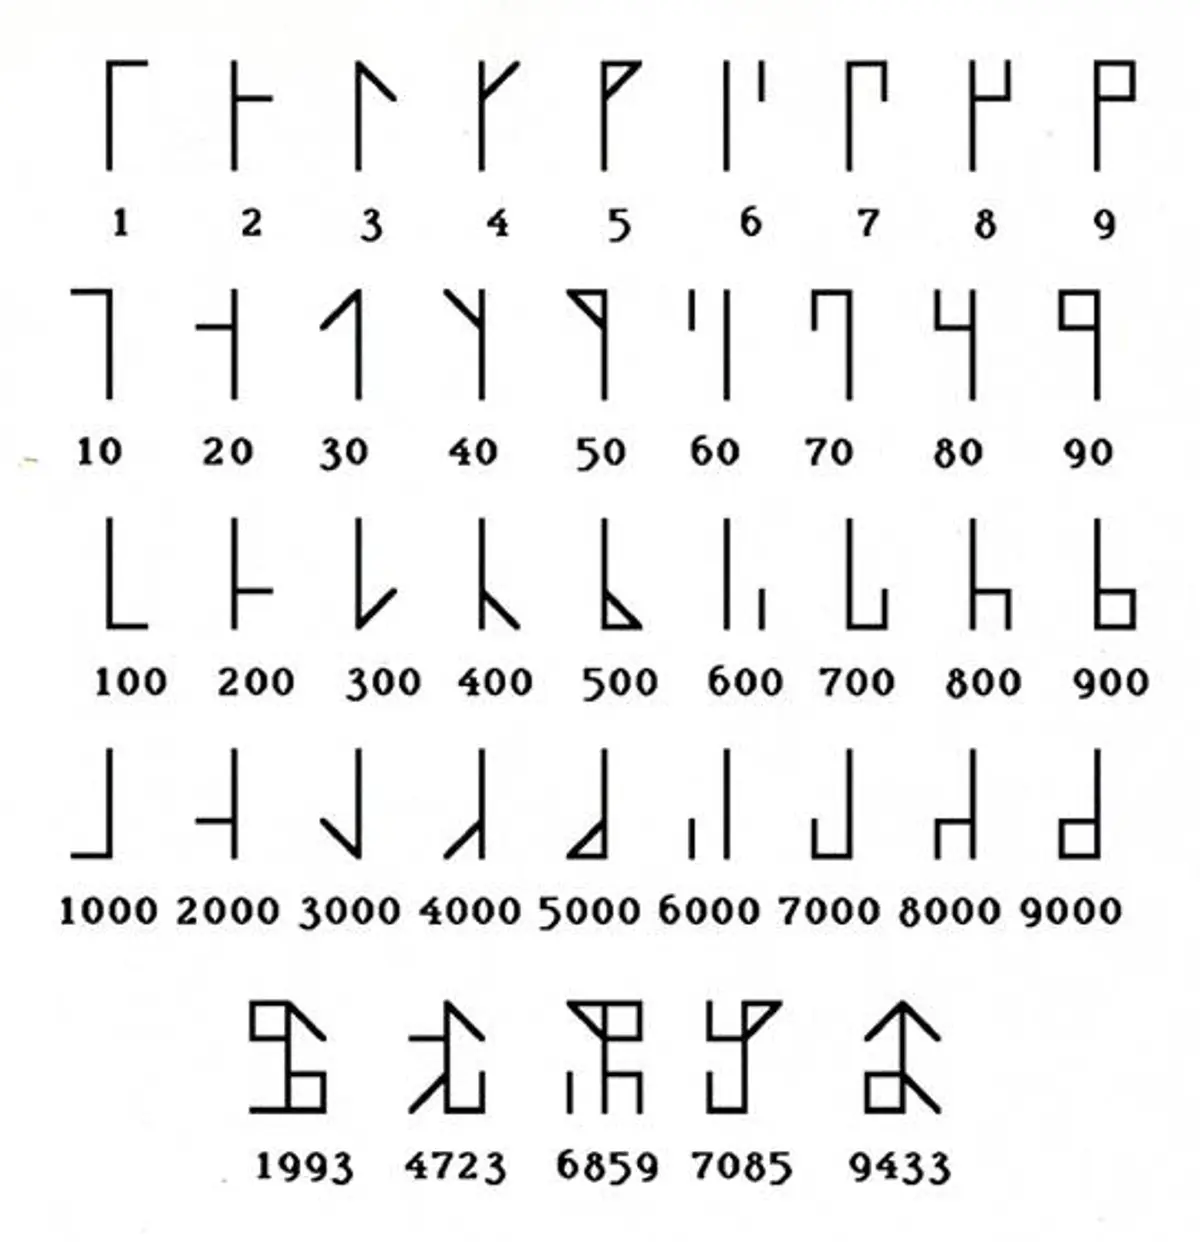
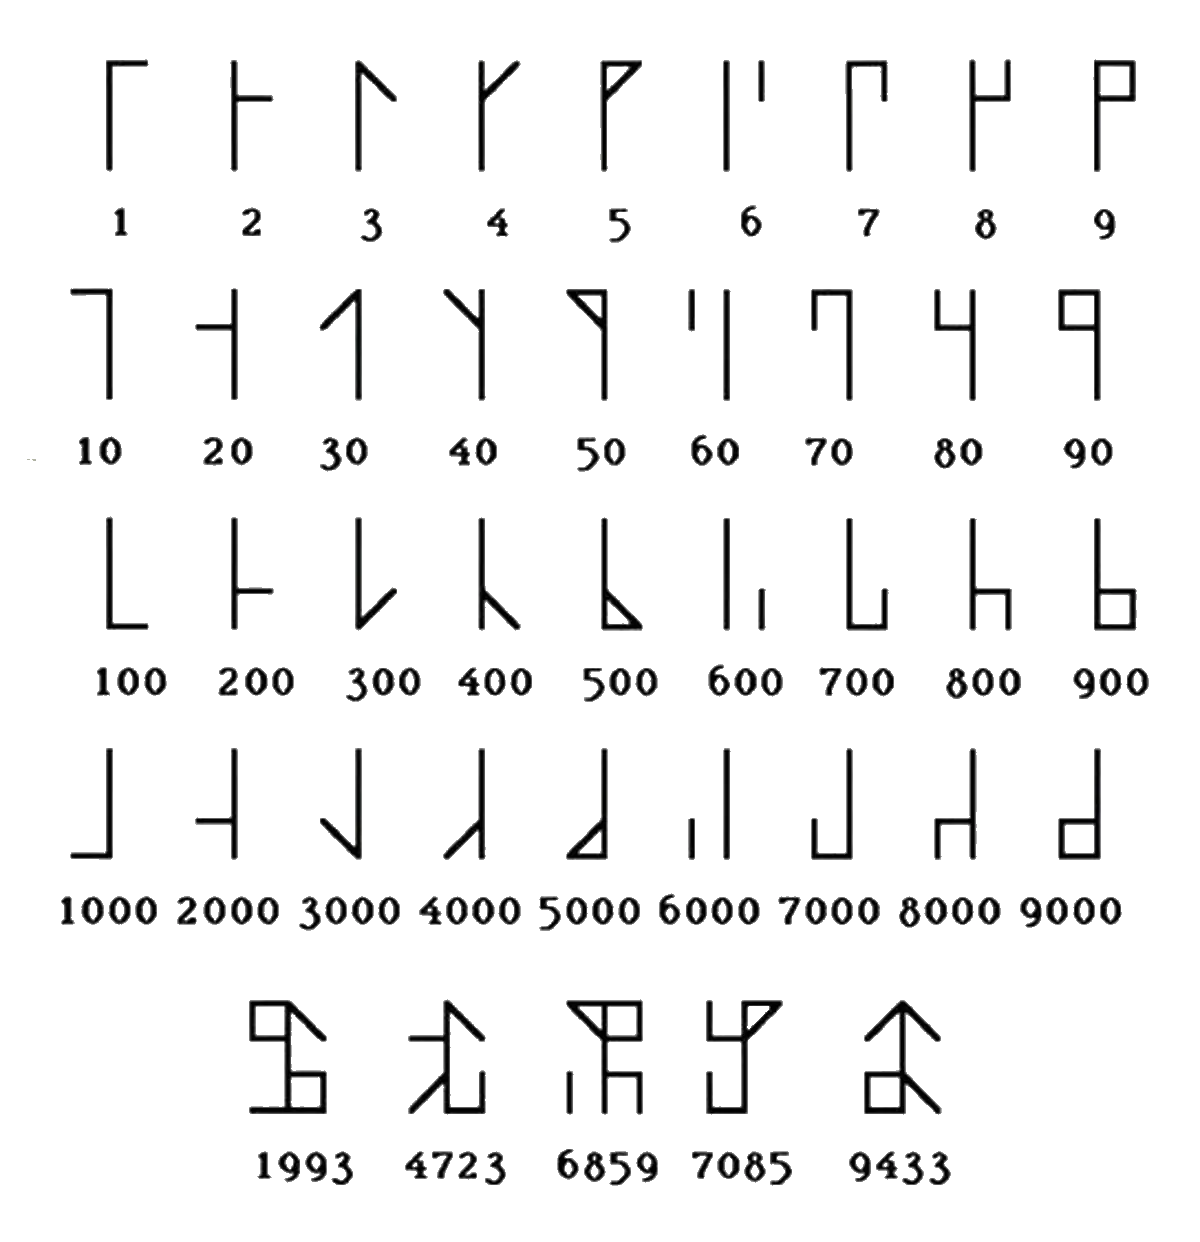
Dark mode stuff

Changed region(s): [[0.6167, 0.7955, 0.6475, 0.8261]]

diff --git a/HTML/X-Rotor.html b/HTML/X-Rotor.html
@@ -12,6 +12,12 @@
         table {
             margin: 1em auto;
         }
+        .dark .movement {
+            filter: invert(80%);
+        }
+        .dark .symbol {
+            filter: invert(80%);
+        }
     </style>
 </head>
 <body>
@@ -34,15 +40,15 @@
                 <ul><li>About the bottom of the module - The button's symbol is to the <strong>left</strong> of the scanned symbol.</li>
                 <li>About the top of the module - The button's symbol is <strong>above</strong> the scanned symbol.</li></ul></li></ul>
                 <p>Press the five buttons in the order their assigned scanned symbols are shown in the sequence.</p>
-                <table style="margin:auto">
-                <tr><th><img src="img/X-Rotor/Symbols/S00.svg" style="width:40px"></th><th><img src="img/X-Rotor/Symbols/S01.svg" style="width:40px"></th><th><img src="img/X-Rotor/Symbols/S02.svg" style="width:40px"></th><th><img src="img/X-Rotor/Symbols/S03.svg" style="width:40px"></th><th><img src="img/X-Rotor/Symbols/S04.svg" style="width:40px"></th><th><img src="img/X-Rotor/Symbols/S05.svg" style="width:40px"></th><th><img src="img/X-Rotor/Symbols/S06.svg" style="width:40px"></th><th><img src="img/X-Rotor/Symbols/S07.svg" style="width:40px"></th></tr>
-                <tr><th><img src="img/X-Rotor/Symbols/S10.svg" style="width:40px"></th><th><img src="img/X-Rotor/Symbols/S11.svg" style="width:40px"></th><th><img src="img/X-Rotor/Symbols/S12.svg" style="width:40px"></th><th><img src="img/X-Rotor/Symbols/S13.svg" style="width:40px"></th><th><img src="img/X-Rotor/Symbols/S14.svg" style="width:40px"></th><th><img src="img/X-Rotor/Symbols/S15.svg" style="width:40px"></th><th><img src="img/X-Rotor/Symbols/S16.svg" style="width:40px"></th><th><img src="img/X-Rotor/Symbols/S17.svg" style="width:40px"></th></tr>
-                <tr><th><img src="img/X-Rotor/Symbols/S20.svg" style="width:40px"></th><th><img src="img/X-Rotor/Symbols/S21.svg" style="width:40px"></th><th><img src="img/X-Rotor/Symbols/S22.svg" style="width:40px"></th><th><img src="img/X-Rotor/Symbols/S23.svg" style="width:40px"></th><th><img src="img/X-Rotor/Symbols/S24.svg" style="width:40px"></th><th><img src="img/X-Rotor/Symbols/S25.svg" style="width:40px"></th><th><img src="img/X-Rotor/Symbols/S26.svg" style="width:40px"></th><th><img src="img/X-Rotor/Symbols/S27.svg" style="width:40px"></th></tr>
-                <tr><th><img src="img/X-Rotor/Symbols/S30.svg" style="width:40px"></th><th><img src="img/X-Rotor/Symbols/S31.svg" style="width:40px"></th><th><img src="img/X-Rotor/Symbols/S32.svg" style="width:40px"></th><th><img src="img/X-Rotor/Symbols/S33.svg" style="width:40px"></th><th><img src="img/X-Rotor/Symbols/S34.svg" style="width:40px"></th><th><img src="img/X-Rotor/Symbols/S35.svg" style="width:40px"></th><th><img src="img/X-Rotor/Symbols/S36.svg" style="width:40px"></th><th><img src="img/X-Rotor/Symbols/S37.svg" style="width:40px"></th></tr>
-                <tr><th><img src="img/X-Rotor/Symbols/S40.svg" style="width:40px"></th><th><img src="img/X-Rotor/Symbols/S41.svg" style="width:40px"></th><th><img src="img/X-Rotor/Symbols/S42.svg" style="width:40px"></th><th><img src="img/X-Rotor/Symbols/S43.svg" style="width:40px"></th><th><img src="img/X-Rotor/Symbols/S44.svg" style="width:40px"></th><th><img src="img/X-Rotor/Symbols/S45.svg" style="width:40px"></th><th><img src="img/X-Rotor/Symbols/S46.svg" style="width:40px"></th><th><img src="img/X-Rotor/Symbols/S47.svg" style="width:40px"></th></tr>
-                <tr><th><img src="img/X-Rotor/Symbols/S50.svg" style="width:40px"></th><th><img src="img/X-Rotor/Symbols/S51.svg" style="width:40px"></th><th><img src="img/X-Rotor/Symbols/S52.svg" style="width:40px"></th><th><img src="img/X-Rotor/Symbols/S53.svg" style="width:40px"></th><th><img src="img/X-Rotor/Symbols/S54.svg" style="width:40px"></th><th><img src="img/X-Rotor/Symbols/S55.svg" style="width:40px"></th><th><img src="img/X-Rotor/Symbols/S56.svg" style="width:40px"></th><th><img src="img/X-Rotor/Symbols/S57.svg" style="width:40px"></th></tr>
-                <tr><th><img src="img/X-Rotor/Symbols/S60.svg" style="width:40px"></th><th><img src="img/X-Rotor/Symbols/S61.svg" style="width:40px"></th><th><img src="img/X-Rotor/Symbols/S62.svg" style="width:40px"></th><th><img src="img/X-Rotor/Symbols/S63.svg" style="width:40px"></th><th><img src="img/X-Rotor/Symbols/S64.svg" style="width:40px"></th><th><img src="img/X-Rotor/Symbols/S65.svg" style="width:40px"></th><th><img src="img/X-Rotor/Symbols/S66.svg" style="width:40px"></th><th><img src="img/X-Rotor/Symbols/S67.svg" style="width:40px"></th></tr>
-                <tr><th><img src="img/X-Rotor/Symbols/S70.svg" style="width:40px"></th><th><img src="img/X-Rotor/Symbols/S71.svg" style="width:40px"></th><th><img src="img/X-Rotor/Symbols/S72.svg" style="width:40px"></th><th><img src="img/X-Rotor/Symbols/S73.svg" style="width:40px"></th><th><img src="img/X-Rotor/Symbols/S74.svg" style="width:40px"></th><th><img src="img/X-Rotor/Symbols/S75.svg" style="width:40px"></th><th><img src="img/X-Rotor/Symbols/S76.svg" style="width:40px"></th><th><img src="img/X-Rotor/Symbols/S77.svg" style="width:40px"></th></tr>
+                <table class='symbol-table' style="margin:auto">
+                <tr><th><img class='symbol' src="img/X-Rotor/Symbols/S00.svg" style="width:40px"></th><th><img class='symbol' src="img/X-Rotor/Symbols/S01.svg" style="width:40px"></th><th><img class='symbol' src="img/X-Rotor/Symbols/S02.svg" style="width:40px"></th><th><img class='symbol' src="img/X-Rotor/Symbols/S03.svg" style="width:40px"></th><th><img class='symbol' src="img/X-Rotor/Symbols/S04.svg" style="width:40px"></th><th><img class='symbol' src="img/X-Rotor/Symbols/S05.svg" style="width:40px"></th><th><img class='symbol' src="img/X-Rotor/Symbols/S06.svg" style="width:40px"></th><th><img class='symbol' src="img/X-Rotor/Symbols/S07.svg" style="width:40px"></th></tr>
+                <tr><th><img class='symbol' src="img/X-Rotor/Symbols/S10.svg" style="width:40px"></th><th><img class='symbol' src="img/X-Rotor/Symbols/S11.svg" style="width:40px"></th><th><img class='symbol' src="img/X-Rotor/Symbols/S12.svg" style="width:40px"></th><th><img class='symbol' src="img/X-Rotor/Symbols/S13.svg" style="width:40px"></th><th><img class='symbol' src="img/X-Rotor/Symbols/S14.svg" style="width:40px"></th><th><img class='symbol' src="img/X-Rotor/Symbols/S15.svg" style="width:40px"></th><th><img class='symbol' src="img/X-Rotor/Symbols/S16.svg" style="width:40px"></th><th><img class='symbol' src="img/X-Rotor/Symbols/S17.svg" style="width:40px"></th></tr>
+                <tr><th><img class='symbol' src="img/X-Rotor/Symbols/S20.svg" style="width:40px"></th><th><img class='symbol' src="img/X-Rotor/Symbols/S21.svg" style="width:40px"></th><th><img class='symbol' src="img/X-Rotor/Symbols/S22.svg" style="width:40px"></th><th><img class='symbol' src="img/X-Rotor/Symbols/S23.svg" style="width:40px"></th><th><img class='symbol' src="img/X-Rotor/Symbols/S24.svg" style="width:40px"></th><th><img class='symbol' src="img/X-Rotor/Symbols/S25.svg" style="width:40px"></th><th><img class='symbol' src="img/X-Rotor/Symbols/S26.svg" style="width:40px"></th><th><img class='symbol' src="img/X-Rotor/Symbols/S27.svg" style="width:40px"></th></tr>
+                <tr><th><img class='symbol' src="img/X-Rotor/Symbols/S30.svg" style="width:40px"></th><th><img class='symbol' src="img/X-Rotor/Symbols/S31.svg" style="width:40px"></th><th><img class='symbol' src="img/X-Rotor/Symbols/S32.svg" style="width:40px"></th><th><img class='symbol' src="img/X-Rotor/Symbols/S33.svg" style="width:40px"></th><th><img class='symbol' src="img/X-Rotor/Symbols/S34.svg" style="width:40px"></th><th><img class='symbol' src="img/X-Rotor/Symbols/S35.svg" style="width:40px"></th><th><img class='symbol' src="img/X-Rotor/Symbols/S36.svg" style="width:40px"></th><th><img class='symbol' src="img/X-Rotor/Symbols/S37.svg" style="width:40px"></th></tr>
+                <tr><th><img class='symbol' src="img/X-Rotor/Symbols/S40.svg" style="width:40px"></th><th><img class='symbol' src="img/X-Rotor/Symbols/S41.svg" style="width:40px"></th><th><img class='symbol' src="img/X-Rotor/Symbols/S42.svg" style="width:40px"></th><th><img class='symbol' src="img/X-Rotor/Symbols/S43.svg" style="width:40px"></th><th><img class='symbol' src="img/X-Rotor/Symbols/S44.svg" style="width:40px"></th><th><img class='symbol' src="img/X-Rotor/Symbols/S45.svg" style="width:40px"></th><th><img class='symbol' src="img/X-Rotor/Symbols/S46.svg" style="width:40px"></th><th><img class='symbol' src="img/X-Rotor/Symbols/S47.svg" style="width:40px"></th></tr>
+                <tr><th><img class='symbol' src="img/X-Rotor/Symbols/S50.svg" style="width:40px"></th><th><img class='symbol' src="img/X-Rotor/Symbols/S51.svg" style="width:40px"></th><th><img class='symbol' src="img/X-Rotor/Symbols/S52.svg" style="width:40px"></th><th><img class='symbol' src="img/X-Rotor/Symbols/S53.svg" style="width:40px"></th><th><img class='symbol' src="img/X-Rotor/Symbols/S54.svg" style="width:40px"></th><th><img class='symbol' src="img/X-Rotor/Symbols/S55.svg" style="width:40px"></th><th><img class='symbol' src="img/X-Rotor/Symbols/S56.svg" style="width:40px"></th><th><img class='symbol' src="img/X-Rotor/Symbols/S57.svg" style="width:40px"></th></tr>
+                <tr><th><img class='symbol' src="img/X-Rotor/Symbols/S60.svg" style="width:40px"></th><th><img class='symbol' src="img/X-Rotor/Symbols/S61.svg" style="width:40px"></th><th><img class='symbol' src="img/X-Rotor/Symbols/S62.svg" style="width:40px"></th><th><img class='symbol' src="img/X-Rotor/Symbols/S63.svg" style="width:40px"></th><th><img class='symbol' src="img/X-Rotor/Symbols/S64.svg" style="width:40px"></th><th><img class='symbol' src="img/X-Rotor/Symbols/S65.svg" style="width:40px"></th><th><img class='symbol' src="img/X-Rotor/Symbols/S66.svg" style="width:40px"></th><th><img class='symbol' src="img/X-Rotor/Symbols/S67.svg" style="width:40px"></th></tr>
+                <tr><th><img class='symbol' src="img/X-Rotor/Symbols/S70.svg" style="width:40px"></th><th><img class='symbol' src="img/X-Rotor/Symbols/S71.svg" style="width:40px"></th><th><img class='symbol' src="img/X-Rotor/Symbols/S72.svg" style="width:40px"></th><th><img class='symbol' src="img/X-Rotor/Symbols/S73.svg" style="width:40px"></th><th><img class='symbol' src="img/X-Rotor/Symbols/S74.svg" style="width:40px"></th><th><img class='symbol' src="img/X-Rotor/Symbols/S75.svg" style="width:40px"></th><th><img class='symbol' src="img/X-Rotor/Symbols/S76.svg" style="width:40px"></th><th><img class='symbol' src="img/X-Rotor/Symbols/S77.svg" style="width:40px"></th></tr>
                 </table>
             </div>
             <div class="page-footer relative-footer">Page 1 of 2</div>
@@ -58,13 +64,13 @@
             The image is upright exactly half way through the scan.</p>
             <p>The diagrams below illustrate the start, mid, and end points of the scans with an example image.</p>
             <h4>Clockwise around bottom</h4>
-            <img src="img/X-Rotor/Examples//BC.svg" style="width:100%">
+            <img class='movement' src="img/X-Rotor/Examples//BC.svg" style="width:100%">
             <h4>Clockwise around top</h4>
-            <img src="img/X-Rotor/Examples//TC.svg" style="width:100%">
+            <img class='movement' src="img/X-Rotor/Examples//TC.svg" style="width:100%">
             <h4>Anticlockwise around bottom</h4>
-            <img src="img/X-Rotor/Examples//BA.svg" style="width:100%">
+            <img class='movement' src="img/X-Rotor/Examples//BA.svg" style="width:100%">
             <h4>Anticlockwise around top</h4>
-            <img src="img/X-Rotor/Examples//TA.svg" style="width:100%">
+            <img class='movement' src="img/X-Rotor/Examples//TA.svg" style="width:100%">
             </div>
             <div class="page-footer relative-footer">Page 2 of 2</div>
         </div>

diff --git a/HTML/Dialtones.html b/HTML/Dialtones.html
@@ -8,6 +8,11 @@
     <link rel="stylesheet" type="text/css" href="css/normalize.css">
     <link rel="stylesheet" type="text/css" href="css/main.css">
     <script src="js/ktane-utils.js"></script>
+    <style>
+        .dark .chart {
+            filter: invert(80%);
+        }
+    </style>
 </head>
 <body>
     <div class="section">
@@ -22,7 +27,7 @@
                 <p class="flavour-text">I try and I try and I try to make you listen to me.</p>
 
                 <p>The module has a numpad equipped with an additional play and record button. Pressing the play button will play a sequence of dialtones. The numbered buttons may be freely pressed to hear the dialtone associated with them as long as the record button has not been pressed.</p>
-                <img src="img/Dialtones/Phonepad.svg" style="float: right">
+                <img src="img/Dialtones/Phonepad.svg" style="float: right" class="chart">
                 <p>The numbers associated with each dialtone in the sequence can be converted to a word as follows:</p><ul>
                 <li>Each run of the same number represents the Nth letter in the number's cell in the diagram, where N is the length of the run.</li>
                 <li>The number 1 is used to separate consecutive runs of the same letter, as it has no letters associated with it.</li></ul>

diff --git a/HTML/Cistercian Numbers.html b/HTML/Cistercian Numbers.html
@@ -8,8 +8,12 @@
     <link rel="stylesheet" type="text/css" href="css/normalize.css">
     <link rel="stylesheet" type="text/css" href="css/main.css">
     <script src="js/ktane-utils.js"></script>
+    <style>
+        .dark .chart {
+            filter: invert(80%);
+        }
+    </style>
 </head>
-
 <body>
     <div class="section">
         <div class="page page-bg-01">
@@ -26,7 +30,7 @@
 
                 <p>The numerals are each built out of one or more pieces, each representing a digit. The abscence of a piece represents the digit 0. The pieces are flipped about one or both axes to indicate place value; the precise appearnces of the pieces, the way different places are formed, and a few examples, can be found in the chart below. </p>
 
-                <img style='width: 100%' src="img/Cistercian Numbers/Chart.png" />
+                <img class='chart' style='width: 100%' src="img/Cistercian Numbers/Chart.png" />
             </div>
             <div class="page-footer relative-footer">Page 1 of 1</div>
         </div>

diff --git a/HTML/Mister Softee.html b/HTML/Mister Softee.html
@@ -33,6 +33,9 @@
         .dark .secret {
             color: #1E1E1E;
         }
+        .dark .wheel {
+            filter: invert(80%);
+        }
     </style>
 </head>
 <body>
@@ -198,7 +201,7 @@
                     </tr>
                     <tr>
                         <td>% 3 = 0</td>
-                        <td><img src='img/Mister Softee/wheel.svg'></td>
+                        <td><img src='img/Mister Softee/wheel.svg' class='wheel'></td>
                         <td>% 3 = 2</td>
                     </tr>
                 </table>

diff --git a/HTML/Face Recognition.html b/HTML/Face Recognition.html
@@ -10,10 +10,13 @@
     <script src="js/ktane-utils.js"></script>
     <style>
     .center {
-  display: block;
-  margin-left: auto;
-  margin-right: auto;
-}
+        display: block;
+        margin-left: auto;
+        margin-right: auto;
+    }
+    .dark .center {
+        filter: invert(80%);
+    }
 </style>
 </head>
 <body>

diff --git a/HTML/Another Keypad Module.html b/HTML/Another Keypad Module.html
@@ -29,6 +29,9 @@
         .symbol {
             width: 8mm;
         }
+        .dark .symbol {
+            filter: invert(80%);
+        }
     </style>
 </head>
 <body>
